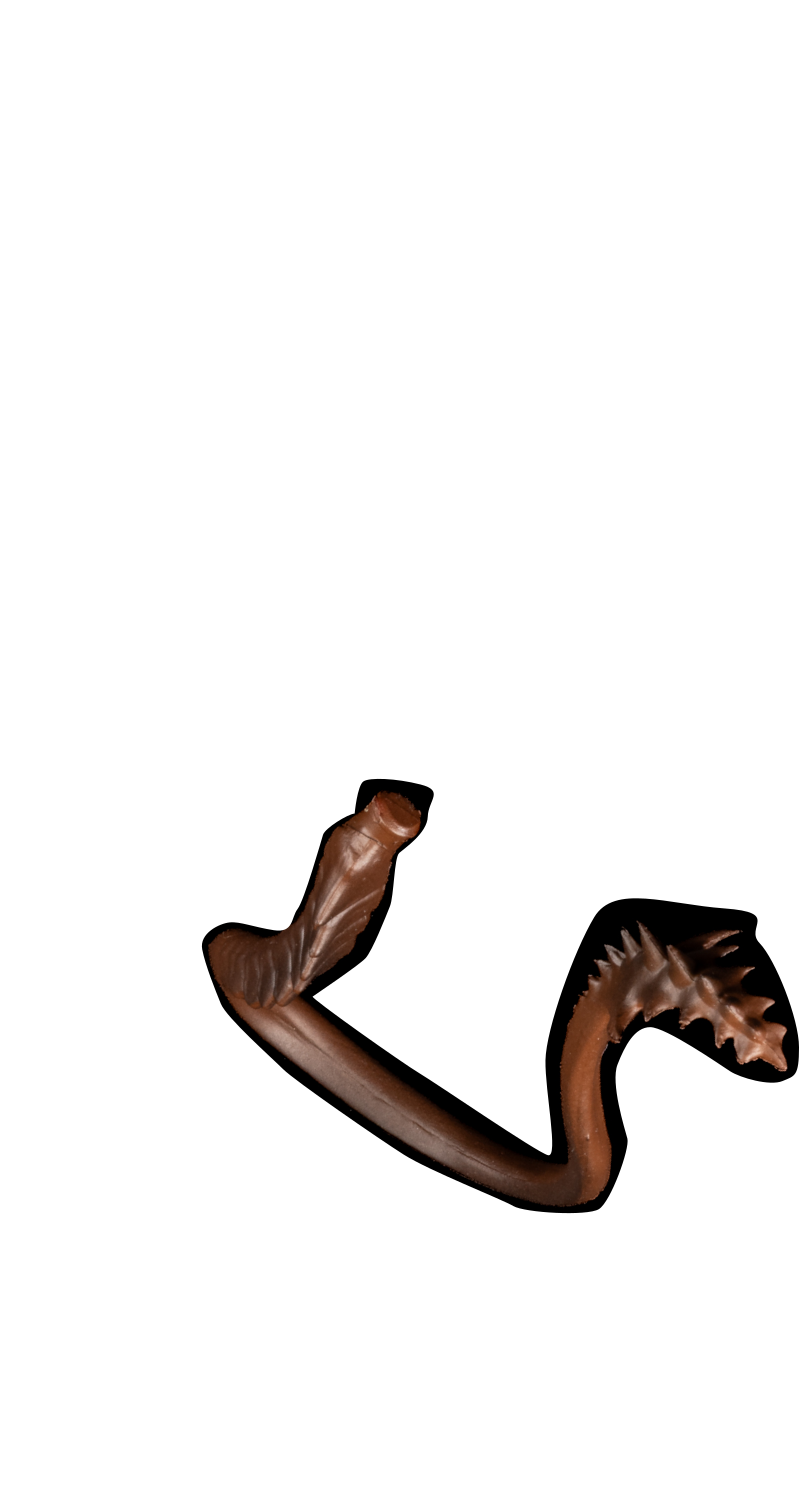
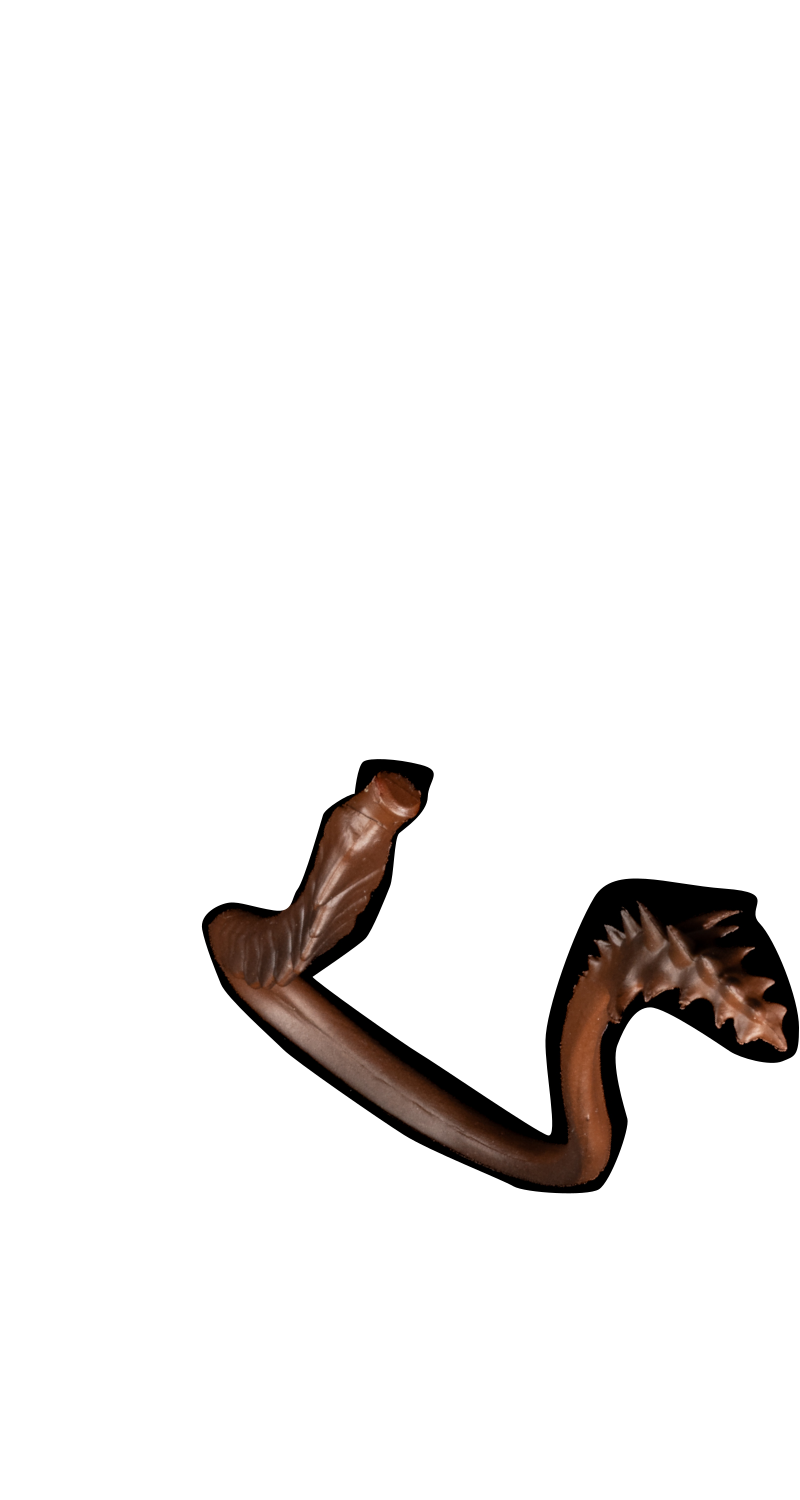
Corrected the tail logic to conistently match the upper body choice. Updated tail images.

Changed region(s): [[0.25, 0.4907, 1.0, 0.828]]

diff --git a/index.html b/index.html
@@ -709,6 +709,30 @@
                         // Otherwise, select the new item
                         selectedItems[category] = option;
                     }
+
+                    // Check for tail logic whenever the upper body is changed
+                    // If the tail is active, then pick the corresponding tail
+                    // If the tail is not active, do nothing really
+                    if (category === 'upper') {
+                        if (selectedItems.upper) {
+                            const upperId = selectedItems.upper.id;
+                            const upperIndex = allOptions.upper.findIndex(option => option.id === upperId);
+                            
+                            if (upperIndex !== -1 && selectedItems.tail) {
+                                selectedItems.tail = allOptions.tail[upperIndex];
+                                tailBtn.classList.add('text-amber-400');
+                            } else if (!selectedItems.upper) {
+                                // If the upper torso is deselected
+                                selectedItems.tail = null;
+                                tailBtn.classList.remove('active');
+                            }
+                        } else {
+                            selectedItems.tail = null;
+                            tailBtn.classList.remove('active');
+                        }
+                    }
+
+                    // Render the figure
                     updateSelectionBorders();
                     renderFigure();
                 }
@@ -748,7 +772,9 @@
                         sidebarButtons.forEach(btn => btn.classList.remove('active'));
                         button.classList.add('active');
                         const category = button.id.replace('-btn', '');
-                        if (category in allOptions) {
+                        //use just categories to not show the tail options
+                        //use category in allOptions to have the tail options visible
+                        if (categories.includes(category)) {
                             renderOptionsGrid(category);
                         }
                     });
